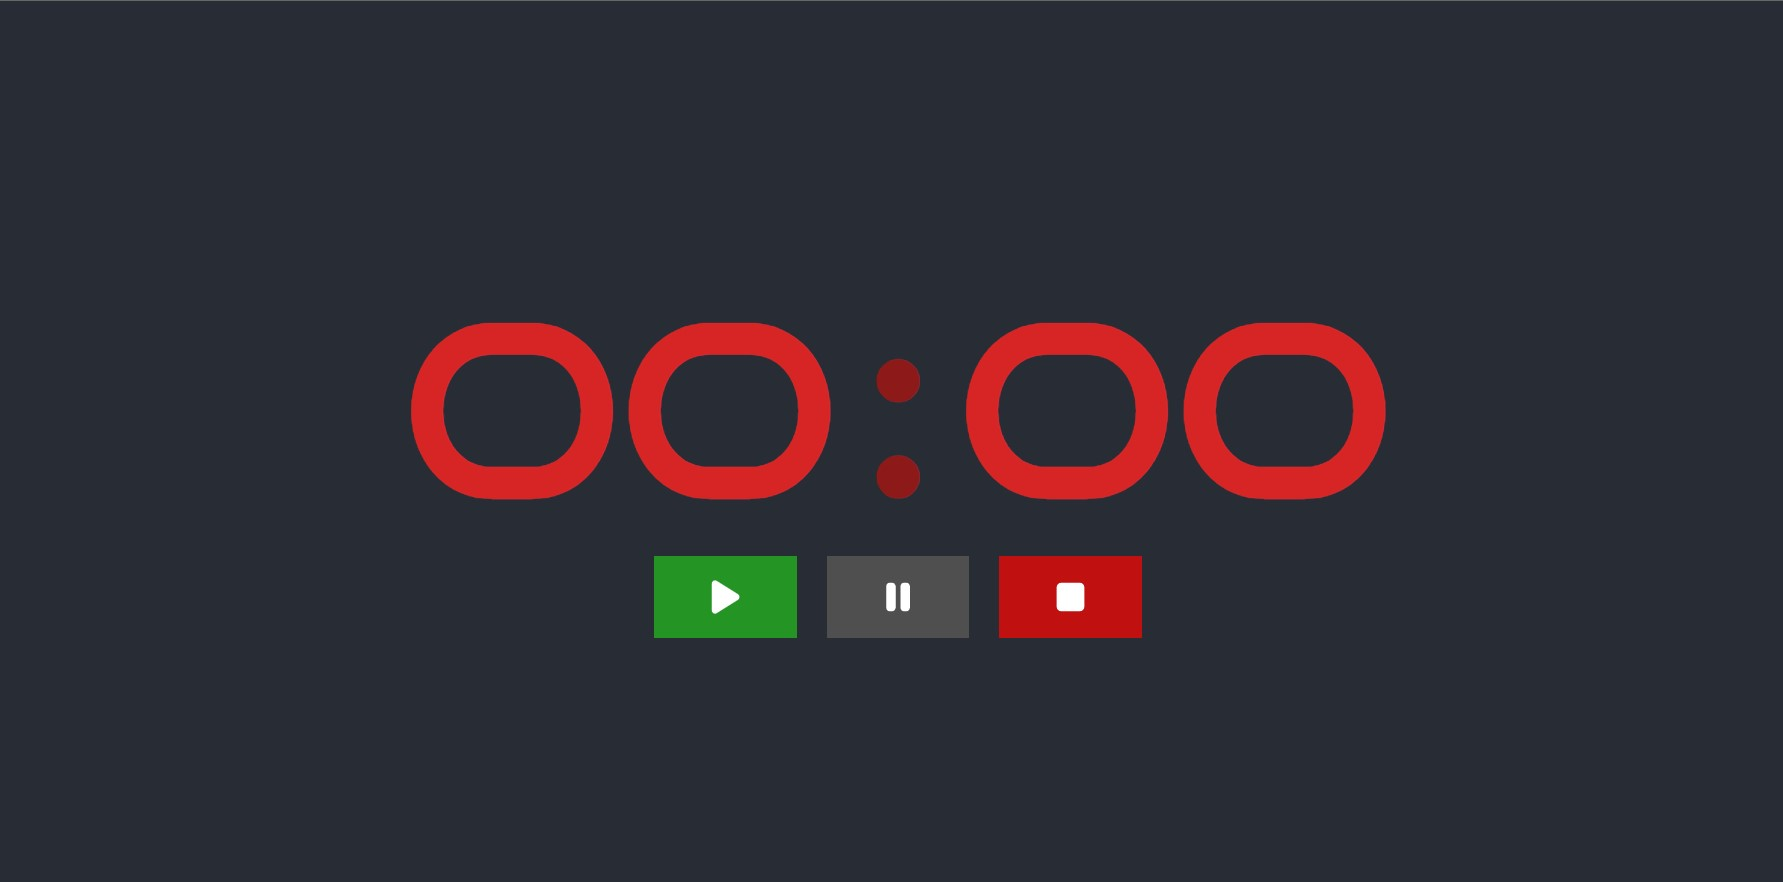
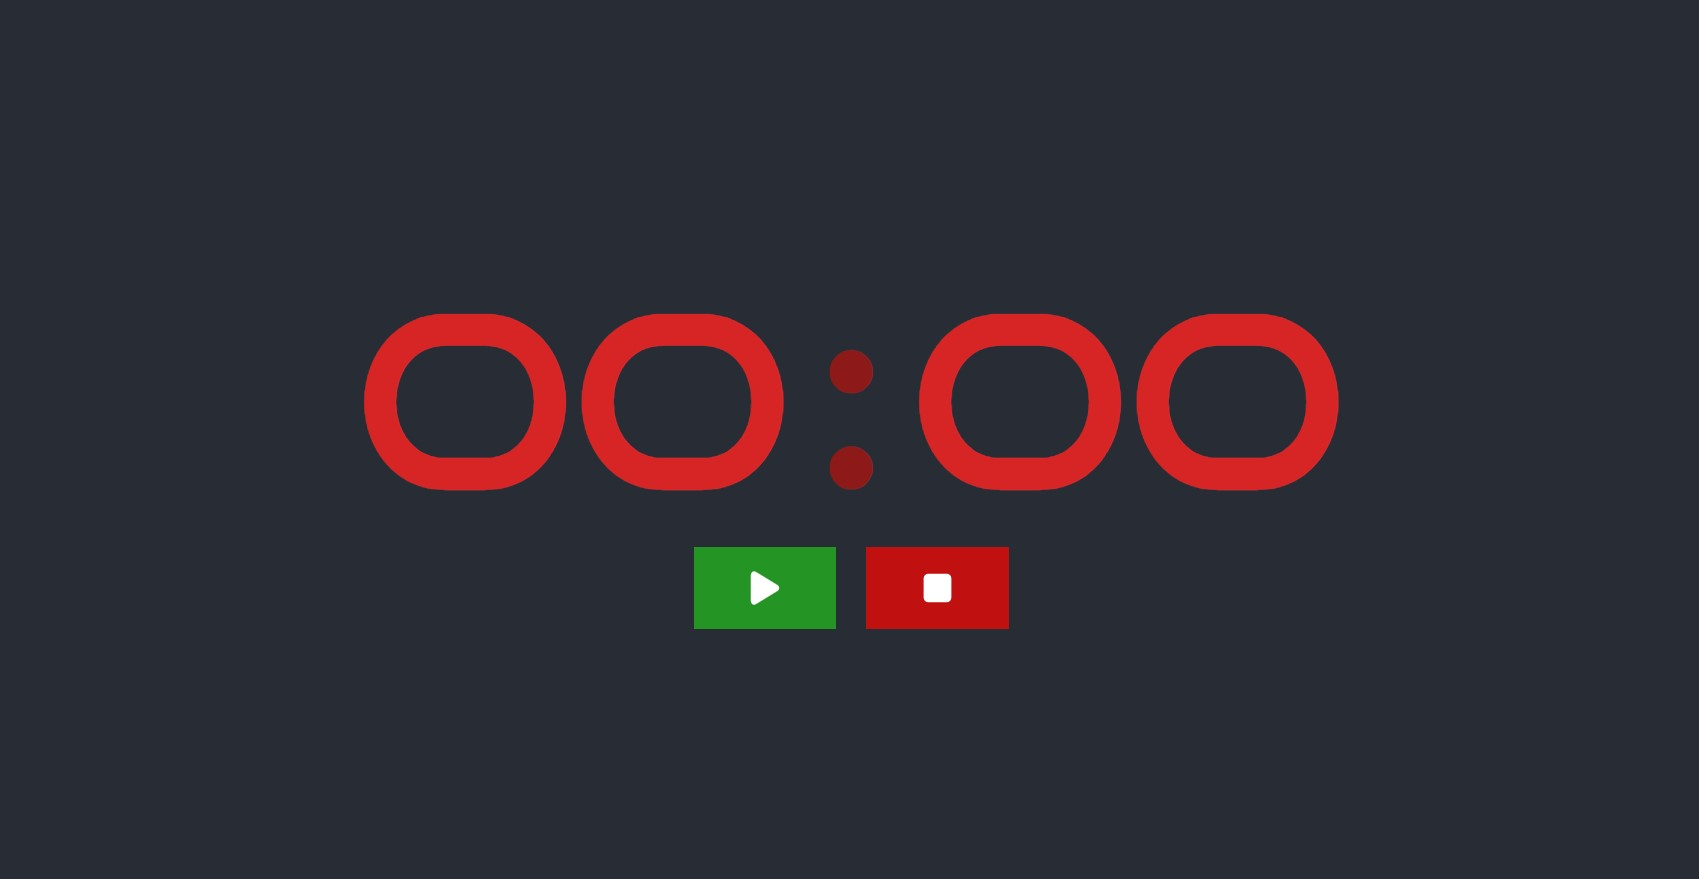
Update stopwatch controls and update README accordingly

Changed region(s): [[0.1872, 0.3379, 0.8111, 0.5836], [0.3431, 0.6143, 0.6551, 0.7372]]

diff --git a/src/containers/StopWatch/StopWatch.js b/src/containers/StopWatch/StopWatch.js
@@ -17,10 +17,10 @@ export function StopWatch() {
     // separator will be taking.
     const [ darkSeparator, setDarkSepartor ] = useState(true);
     // This enables or disables the counter of the stopwatch
-    const [ enableStopWatch, setEnableStopWatch ] = useState(false);
+    const [ enableStopWatch, setEnableStopWatch ] = useState("Stopped");
 
     useEffect(() => {
-        if(enableStopWatch) {
+        if(enableStopWatch === "Started") {
             // Increment minutes by 1 and reset seconds to 0 if 60 seconds is reached
             if(seconds === 60) {
                 setMinutes(previousMinutes => previousMinutes + 1);
@@ -53,17 +53,17 @@ export function StopWatch() {
 
     // Handler function to start the counter
     const startStopWatch = () => {
-        setEnableStopWatch(true);
+        setEnableStopWatch("Started");
     }
 
     // Handler function to pause the counter
     const pauseStopWatch = () => {
-        setEnableStopWatch(false);
+        setEnableStopWatch("Paused");
     }
 
     // Handler function to stop the counter
     const stopStopWatch = () => {
-        setEnableStopWatch(false);
+        setEnableStopWatch("Stopped");
         setSeconds(0);
         setMinutes(0);
         setDarkSepartor(true);
@@ -96,24 +96,14 @@ export function StopWatch() {
             </div>
 
             <div className="buttons">
-                <Button 
-                    text="Start"
-                    buttonCategory="btn-icon btn-success"
-                    onClick={ startStopWatch }
-                    iconUrl={ playLogo }
+                <Button
+                    buttonCategory={ enableStopWatch === "Started" ? "btn-icon btn-secondary" : "btn-icon btn-success" }
+                    onClick={ enableStopWatch !== "Started" ? startStopWatch : pauseStopWatch }
+                    iconUrl={ enableStopWatch === "Started" ? pauseLogo : playLogo }
                     displayChoice="icon"
-                    altText="Play Button"
+                    altText={ enableStopWatch === "Started" ? "Pause Button" : "Start Button" }
                 />
                 <Button
-                    text="Pause"
-                    buttonCategory="btn-icon btn-secondary"
-                    onClick={ pauseStopWatch }
-                    iconUrl={  pauseLogo }
-                    displayChoice='icon'
-                    altText="Pause Button"
-                />
-                <Button
-                    text="Stop"
                     buttonCategory="btn-icon btn-alert"
                     onClick={ stopStopWatch }
                     iconUrl={ stopLogo }

diff --git a/README.md b/README.md
@@ -2,6 +2,10 @@
 
 A simple **StopWatch** app built using React. The app has a *Start*, *Pause* and *Stop* feature. It can count only upto an hour after which it resets itself to 0 minutes and 0 seconds.
 
-The following is a sample screen from the app:
+The following is a sample screen from the app when it is stopped:
 
 ![Sample Screenshot](./src/assets/img/app_screenshot.jpg)
+
+The following is a sample screen from the app when it is running:
+
+![Sample Screenshot Running](./src//assets//img/app_screenshot_started.jpg)
